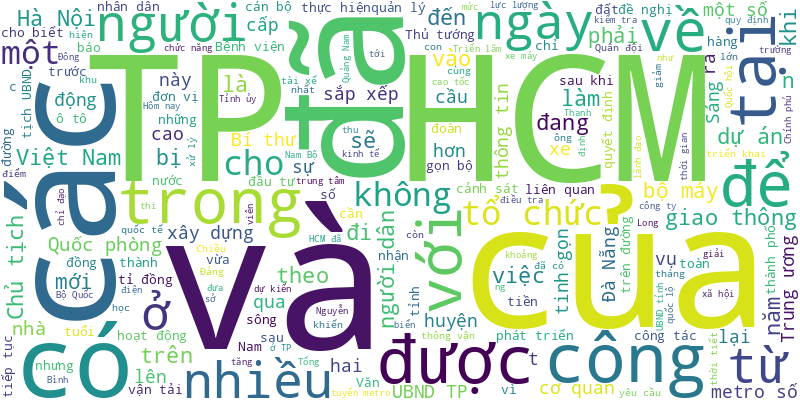
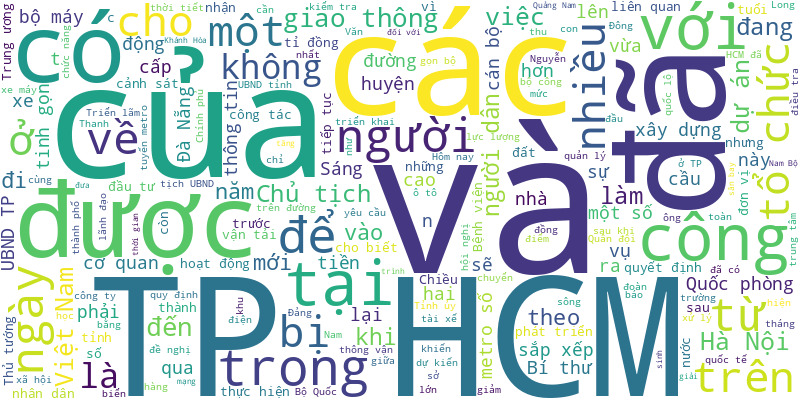
🍀 = 70%

diff --git a/README.md b/README.md
@@ -1,6 +1,18 @@
 # Tuoi Tre RSS 
 
 ## Giáo dục 
+- Từ những chuyến đi học tập trải nghiệm thực tế, các cô cậu học trò không khỏi trân quý những thành quả lao động được làm ra từ chính đôi bàn tay của những người sản xuất.
+- Năm 2025, Trường đại học Luật TP.HCM dự kiến sẽ tăng mạnh chỉ tiêu tuyển sinh đại học chính quy, mở thêm tối thiểu 3 ngành mới các lĩnh vực kinh doanh và quản lý, pháp luật.
+- Theo hiệu trưởng nhà trường, hành động của cô giáo M. là sai, vi phạm quy định, giáo viên không được phép làm. Nhà trường đã tạm dừng việc đứng lớp của cô giáo M. một tuần.
+- Chiều 26-12, học sinh Trường THPT Ernst Thälmann (quận 1, TP.HCM) đến tham quan học tập thực tế tại nhà máy mì Acecook Việt Nam.
+- Phòng thí nghiệm được dùng để nghiên cứu công nghệ phục vụ các ứng dụng của 5G, 6G như công nghiệp tự động hóa, điều khiển tự động, xe tự lái, phẫu thuật y tế từ xa.
+- Tất cả học sinh lớp 12 Trường THPT Trần Hữu Trang, TP.HCM phải làm bài kiểm tra lại môn tiếng Anh trong đợt thi cuối học kỳ 1.
+- Phó thủ tướng Lê Thành Long vừa ký các quyết định của Thủ tướng về việc sáp nhập Trường cao đẳng Y tế Hải Dương và Trường cao đẳng Sư phạm Nghệ An vào hai trường đại học.
+- Năm 2024 đánh dấu cột mốc của sinh viên Đại học (ĐH) Duy Tân với chuỗi dài các giải nhất ở khắp các “đấu trường” học thuật trong nước và quốc tế.
+- Theo lãnh đạo Đại học Quốc gia TP.HCM, cấu trúc bài thi, đề thi đánh giá năng lực từ năm 2025 cần được điều chỉnh phù hợp.
+- Lo ngại lệnh cấm đi lại có thể được áp dụng, một số trường đại học tại Mỹ khuyến khích sinh viên quốc tế sớm quay trở lại trường sau kỳ nghỉ đông.
+- Nhiều bạn trẻ đặt niềm tin vô điều kiện vào mẹo tâm linh như đăng lại video TikTok may mắn, trải bài tarot... đủ kiểu trước kỳ thi.
+- Ngoài việc đổi tên, học viện này đang xúc tiến thủ tục thành lập phân hiệu tại Long Thành, Đồng Nai nhằm cung cấp nhân lực về hàng không.
 - Đến nay, Trường quốc tế Ngôi Sao Sài Gòn (Saigon Star) vẫn không có tên trong danh sách các trường ngoài công lập do Sở Giáo dục và Đào tạo cấp phép.
 - Một số học sinh ở Quảng Nam lên mạng xã hội mua búp bê Kumanthong về nhà thờ cúng, mua bánh, kẹo, sữa 'cho ăn' nhằm cầu may mắn và học giỏi. Theo công an, đây là hoạt động mê tín dị đoan hết sức nguy hiểm.
 - Nhận học bổng "Tiếp sức học sinh Làng Nủ đến trường", các học sinh nói vẫn nhớ những bát "Phở yêu thương" của báo Tuổi Trẻ.
@@ -989,21 +1001,62 @@
 - Sau khi bão Yagi (bão số 3) gây thiệt hại ở nhiều địa phương, mưa lũ lại tiếp tục ở một số tỉnh miền núi phía Bắc. Nhiều trường học vẫn chưa thể cho học sinh quay lại trường.
 - Ngay sau khi nghe tin cầu Phong Châu sập, hai nhà xe đã hợp sức huy động 3 xe chở hàng trăm học sinh đi đường vòng 50km đến trường...
 - Trường tiểu học Ninh Phụng (thị xã Ninh Hòa, tỉnh Khánh Hòa) chưa lấy ý kiến của người dân nhưng đã dồn học sinh của điểm trường này sang điểm trường khác, khiến phụ huynh bức xúc.
-- Các nhà nghiên cứu đã tiến gần hơn đến việc hiểu lý do tại sao trẻ em khó tập trung vào các nhiệm vụ đang làm.
-- Bí thư Hà Nội Bùi Thị Minh Hoài giao Ban Cán sự đảng UBND TP chỉ đạo bảo đảm lưu thông an toàn qua các cầu, các cầu yếu không bảo đảm an toàn phải dừng lưu thông.
-- Chỉ trong 10 ngày (từ 28-8 đến 6-9), số vụ liên quan đến deepfake ở Hàn Quốc đã lên tới 238 vụ. Tổng cộng 588 học sinh và 27 giáo viên bị ảnh hưởng.
-- Bộ Giáo dục và Đào tạo đang kêu gọi chung tay hỗ trợ sách giáo khoa, đồ dùng học tập cho học sinh chịu thiệt hại do bão số 3.
-- Do khác biệt văn hóa Đông - Tây nên một số giáo viên bản ngữ dạy tiếng Anh ở Việt Nam gặp không ít rắc rối.
-- Phó bí thư Thành ủy, Chủ tịch Ủy ban MTTQ Việt Nam TP.HCM Nguyễn Phước Lộc đến thăm Trường tiểu học Lý Nhơn sau sự cố tốc mái.
-- Khảo sát cho thấy 86% giáo viên ở độ tuổi 20-30 muốn bỏ nghề vì không hài lòng với mức lương, cũng như áp lực từ cha mẹ học sinh.
-- Không còn bó hẹp trong không gian một lớp học mà rộng mở hơn, trẻ em vùng cao nhờ đó lần đầu được biết đến nhiều điều mới mẻ ở Hà Nội, ở mũi Cà Mau hay ở một đất nước khác qua các lớp học "kết nối".
-- Cấm học sinh sử dụng điện thoại trong lớp là rất cần thiết, nhưng thực tế nhiều học sinh luôn tìm cách "lách luật".
-- Các trường đại học đều xét và cấp học bổng sau mỗi học kỳ, năm học. Chinh phục những học bổng này có khó?
-- Đại học Bách khoa Hà Nội, Trường đại học Nông - Lâm Bắc Giang cùng nhiều trường đại học vừa thông báo điều chỉnh kế hoạch học tập, cho sinh viên tiếp tục nghỉ học hoặc học trực tuyến sau bão số 3.
-- Bắc Ninh, Hải Phòng, Cao Bằng và nhiều tỉnh/thành phố vừa tiếp tục thông báo cho học sinh nghỉ học thứ hai, ngày 9-9 để khắc phục hậu quả sau bão số 3.
 ![Edu](Edu.png)
 ## Thời Sự 
-- Nhà trọ 5 tầng trên đường số 10, phường Tăng Nhơn Phú B, TP Thủ Đức, TP.HCM cháy sáng sớm 27-12.
+- Được khởi công vào tháng 6-2023, đến nay dự án vành đai 3 TP.HCM đã đạt 30% với 10 gói thầu chính và nhận được 99,8% mặt bằng.
+- Lực lượng cảnh sát phòng cháy chữa cháy Đồng Nai kịp thời giải cứu tài xế mắc kẹt trong cabin xe đông lạnh, sau khi đâm sập ki ốt ven đường.
+- Đang dịp cuối năm nhưng nhiều mặt bằng kinh doanh ở TP.HCM vẫn 'cửa đóng then cài'. Tại Hà Nội cũng ghi nhận nhiều mặt bằng còn trống.
+- Một số tin tức đáng chú ý: Quy định mới về đăng ký thường trú, tạm trú; Lập 2 bãi xe tạm gần ga Bến Thành; Đề xuất mở rộng địa điểm cấm hút thuốc lá...
+- Hôm nay 28-12, miền Trung vẫn còn mưa to đến rất to, miền Nam mưa rào do các nhiễu động thời tiết gây ra.
+- Lực lượng công an thu 9 mẫu chả tại cơ sở sản xuất chả gửi cơ quan chức năng tiến hành kiểm định thì cho kết quả cả 9 mẫu đều phát hiện hàn the (natri borat).
+- Cơn mưa lớn kèm sấm chớp bất ngờ đổ xuống khiến nhiều tuyến đường ở thành phố Biên Hòa (Đồng Nai) chìm trong nước.
+- Thừa ủy quyền, Đại tướng Lương Tam Quang đã trao quyết định của Chủ tịch nước thăng cấp bậc hàm từ thiếu tướng lên trung tướng đối với ông Nguyễn Ngọc Lâm, thứ trưởng Bộ Công an.
+- Chiều 27-12, Bộ Quốc phòng tổ chức trao quyết định của Chủ tịch nước cho sĩ quan làm nhiệm vụ gìn giữ hòa bình Liên hợp quốc.
+- Chiều 27-12, cơn mưa lớn trút xuống nhiều nơi tại TP.HCM, các đoàn tàu tuyến metro số 1 đã tạm dừng hoạt động để đổi chế độ vận hành bằng tay, đảm bảo an toàn.
+- Chỉ còn 4 ngày nữa, 41 phường mới tại TP.HCM sẽ đi vào hoạt động sau khi sáp nhập từ 80 phường. Hiện cán bộ, công chức của các phường đang tất bật dọn dẹp, di chuyển, sắp xếp để ổn định nơi làm việc mới.
+- Chủ tịch UBND TP.HCM Phan Văn Mãi cho biết đề án phát triển 355km hệ thống đường sắt đô thị TP.HCM đến năm 2035 vừa được Bộ Chính trị thông qua.
+- Chiều tối 27-12, cả TP.HCM xảy ra mưa dông, nhiều nơi mưa lớn và sét đánh.
+- Hơn 44.000 bao thuốc lá hiệu Jet, Hero nhập lậu được tỉnh Quảng Trị tịch thu trong năm 2024, bị tiêu hủy bằng các biện pháp đốt, chôn lấp.
+- 'Ngày 26-12 có 7 con sếu đầu đỏ bay về phân khu A5 Vườn quốc gia Tràm Chim 'thám thính'. Đầu tháng 3 có 4 con sếu về, một tín hiệu đáng mừng cho thấy môi trường đã dần hồi phục theo hướng tốt' - TS Trần Triết cho hay.
+- Lực lượng chức năng đã kiểm tra việc cơi nới ban công trái phép trên tầng 41-42 Mường Thanh Luxury (phường Lộc Thọ, TP Nha Trang).
+- Chủ tịch nước Lương Cường đã trao quyết định thăng cấp bậc hàm từ trung tướng lên thượng tướng đối với Thứ trưởng Bộ Công an Lê Quốc Hùng.
+- Công ty TNHH MTV Đường sắt đô thị số 1 thông tin về việc triển khai lại hệ thống thanh toán không chạm thu soát vé tự động trên tuyến metro số 1 (Bến Thành - Suối Tiên) từ ngày 2-1-2025.
+- Công an TP Phú Quốc đang điều tra hành vi 3 người nước ngoài lừa đảo bằng thủ đoạn đổi tiền USD giả, mua hàng hóa.
+- Sau sáp nhập, bộ hợp nhất hai bộ Xây dựng và Giao thông vận tải sẽ có tên mới là Bộ Xây dựng và giao thông, số đơn vị trực thuộc bộ hợp nhất còn 24 - 27 đơn vị, giảm 35 - 41% số đầu mối so với trước khi sáp nhập.
+- Trưa nay thời tiết TP.HCM có mưa dông nhiều nơi kèm theo gió, vùng mưa đang mở rộng ra nhiều nơi, do đâu đang mùa khô lại có mưa?
+- Dự án 94 Lò Đúc bỏ hoang nhiều năm được các cử tri quan tâm, đặt câu hỏi cho các đại biểu HĐND TP Hà Nội - đơn vị bầu cử số 4.
+- Ngoài hỗ trợ các cặp vợ chồng sinh đủ 2 con, ngành y tế TP.HCM đang gấp rút trình nghị quyết đặc thù về hỗ trợ một số chi phí khác.
+- Bạn đọc Tuổi Trẻ Online bày tỏ bất bình khi chủ cơ sở trồng giá bằng hóa chất độc hại ở Huế chỉ bị phạt tiền.
+- Hai người giới thiệu là phóng viên, đến yêu cầu một chủ mỏ cát tại Quảng Bình đưa 50 triệu đồng để không viết bài. Khi nhận tiền, cả hai bị bắt giữ.
+- Văn phòng UBND TP.HCM tổ chức hội nghị tổng kết công tác văn phòng 2024 và hội nghị cán bộ, công chức văn phòng nhân dân TP.HCM 2025.
+- 6-Benzylaminopurine là một loại hóa chất kích thích tăng trưởng cấm dùng trong sản xuất thực phẩm vì có mức độ nguy hại lớn.
+- Hà Nội đặt mục tiêu trồng mới thêm 700.000 cây xanh trong năm 2025, góp phần hoàn thành mục tiêu trồng 1 tỉ cây xanh giai đoạn 2021-2025.
+- Sau khi metro số 1 hoạt động, TP.HCM có thêm động lực để đầu tư đồng loạt 355km metro, dự kiến hoàn thành trong 10 năm.
+- Đầu tháng 12-2024 đến nay, ngư dân các xã ven biển ở Ninh Thuận vui như hội vì “trúng đậm” tôm hùm con.
+- PGS.TS Phan Thanh Bình, nguyên ủy viên Ủy ban Thường vụ Quốc hội, phát biểu tại hội thảo do Học viện Cán bộ TP.HCM tổ chức sáng 27-12.
+- Tàu cá bị sóng đánh chìm ở Ninh Thuận, 11 người được cứu, riêng con trai chủ tàu 12 tuổi chết khi cấp cứu tại bệnh viện.
+- Người dân TP Buôn Ma Thuột khóc ròng vì đường Phan Huy Chú thành sình lầy do thi công dang dở.
+- Trưa 27-12, hỏa hoạn xảy ra tại khu vực sơn, đánh bóng xe gara ô tô khu Đìa Đừng xã Song Phượng.
+- Sau gần ba năm đưa vào khai thác, cầu Ba Son đang được lắp đặt hệ thống chiếu sáng mỹ thuật.
+- Sáng 27-12, Cổng thông tin điện tử Chính phủ tổ chức tọa đàm "Kỷ nguyên vươn mình của dân tộc - Cơ hội và thách thức”.
+- Một cây hoa sữa lớn đổ giữa đường phố tại trung tâm TP Quy Nhơn (Bình Định) trong mưa, đè trúng một người đàn ông đang chạy xe máy.
+- Cầu Tân Kỳ Tân Quý ở quận Bình Tân (TP.HCM) sẽ thông xe vào ngày 15-1-2025, còn cầu Bà Hom thông xe sau đó 5 ngày.
+- Bốn người là lãnh đạo các ban, ngành được Ban Bí thư chỉ định tham gia Ban Chấp hành Đảng bộ tỉnh Lâm Đồng nhiệm kỳ 2020 - 2025.
+- Ngày 27-12, Tỉnh ủy Đồng Nai đã tổ chức hội nghị triển khai các quyết định về công tác cán bộ.
+- Bí thư Bà Rịa - Vũng Tàu yêu cầu tinh gọn bộ máy phải giữ được người thiết tha cống hiến, người tài giỏi, không bố trí người thân quen.
+- Sở Y tế tiếp tục xác minh, làm rõ các sai phạm tại các cơ sở Dong Yang (quận Tân Bình), BB Beauty và VHAN (quận 10).
+- Hội nghị công bố các quyết định tổ chức với sự tham gia của Bí thư Tỉnh ủy Bình Dương Nguyễn Văn Lợi và Chủ tịch UBND tỉnh Võ Văn Minh.
+- Đôi vợ chồng trẻ dự định giữa tháng sau sẽ về quê ăn Tết cùng gia đình nhưng không may gặp nạn trong vụ cháy nhà trọ tại Thủ Đức (TP.HCM).
+- Bộ trưởng Đào Ngọc Dung đã có thông tin mới về tiến độ công việc hợp nhất giữa Bộ Lao động - Thương binh và Xã hội với Bộ Nội vụ.
+- Sáng 27-12, Ban Chấp hành Đảng bộ tỉnh Bắc Giang tổ chức hội nghị lần thứ 23, bầu chức danh phó bí thư Tỉnh ủy nhiệm kỳ 2020-2025.
+- Hàng loạt chủ dự án có biệt thự, căn hộ du lịch trên đất ở Khánh Hòa không khai báo để quản lý, thu thuế.
+- Ngày 27-12, Tổng cục Hải quan triển khai thi công xây dựng công trình trụ sở hải quan tại sân bay Long Thành.
+- Ngày 27-12, Phòng Cảnh sát giao thông Công an Đà Nẵng cho biết đã truy vết và xử lý lái xe trộn bê tông gây ra sự việc trên.
+- Chiếc xe khách chở 200kg nội tạng bốc mùi hôi thối trên đường ra Bắc để tiêu thụ thì bị cảnh sát giao thông Công an tỉnh Hà Tĩnh phát hiện.
+- Một số đơn vị ở Sơn La, Bắc Giang, Bà Rịa - Vũng Tàu... đã tổ chức các kỳ kiểm tra sát hạch đội ngũ cán bộ, công chức, viên chức.
+- Lễ tang Đại tướng Nguyễn Quyết, nguyên phó chủ tịch Hội đồng Nhà nước (nay là phó chủ tịch nước), được tổ chức trọng thể tại Nhà tang lễ Quốc gia.
+- Tỉnh cho rằng cả hai đã hy sinh khi cứu người, cứu tài sản của dân nên đề nghị bộ xem xét, trình Thủ tướng cấp bằng Tổ quốc ghi công.
+- Hai nạn nhân thiệt mạng được xác định là đôi vợ chồng mới cưới nhau được một năm, từ Thái Bình vào TP.HCM lập nghiệp.
 - 3 người đàn ông chạy xe máy tông vào dải phân cách ở Nha Trang, tử vong tại chỗ.
 - Vợ chồng Hạnh xây dựng hình ảnh công ty của mình chuyên kinh doanh bất động sản, sở hữu nhiều bất động sản, dự án trên cả nước.
 - Người dùng mạng xã hội lan truyền những hình ảnh ánh sáng xanh trên bầu trời Bình Định, Phú Yên và gọi đó là cực quang.
@@ -1950,61 +2003,9 @@
 - Những ngày này, trong câu chuyện bên bàn cà phê, các bạn trẻ tại TP.HCM rộn ràng bàn luận về việc tàu điện metro đi vào hoạt động.
 - Theo Chủ tịch Quốc hội Trần Thanh Mẫn, giữa tháng 2-2025 Trung ương họp và cuối tháng 2 sẽ họp Quốc hội bất thường để sửa một số luật liên quan tinh gọn bộ máy.
 - Cảnh "ao tù", cỏ dại, hoang phế tại 3 dự án án ngữ trên đất "kim cương" giữa trung tâm Đà Nẵng suốt hơn chục năm qua.
-- Bộ Nội vụ đã có hướng dẫn về định hướng xây dựng phương án bố trí, sắp xếp cán bộ, công chức khi thực hiện sắp xếp tổ chức bộ máy hành chính.
-- Chỉ trong vòng hơn 1 năm, Hường và Thành đã vận chuyển, mua bán khoảng 4,5 triệu USD qua biên giới sang Lào để tiêu thụ, kiếm lời.
-- Nhiều chuyên gia, nghệ sĩ đưa ra ý kiến khá bất ngờ: đầu tư cho văn hóa thì tài chính trực tiếp rất quý nhưng không phải là thứ quan trọng nhất.
-- Tin tức đáng chú ý: Khai mạc phiên họp 40 của Ủy ban Thường vụ Quốc hội, xem xét sáp nhập đơn vị cấp huyện, xã của tỉnh Ninh Bình; Tiếp tục triển khai đường sắt đô thị, tàu điện ngầm tại Hà Nội, TP.HCM...
-- Hôm nay 10-12, thời tiết cả nước ban ngày không có gì đột biến nhưng từ đêm nay Trung Bộ sẽ mưa to đến rất to.
-- Bà Trịnh Thị B. ngụ phường 7, TP Vũng Tàu đã bị tạm giữ hình sự sau khi có đơn tố cáo bà này bạo hành trẻ em tại nhà mình.
-- Chiều tối 9-12, Thủ tướng Chính phủ Phạm Minh Chính tiếp, làm việc với đoàn lãnh đạo 18 doanh nghiệp, tập đoàn của Trung Quốc.
-- Lần đầu tiên báo Tuổi Trẻ phối hợp Bộ Nông nghiệp và Phát triển nông thôn tổ chức hội thảo "Xây dựng thương hiệu quốc gia cho gạo Việt".
-- Thấy cảnh sát giao thông dừng xe kiểm tra, người đàn ông quốc tịch Trung Quốc tăng ga bỏ chạy đến 10km mới bị chặn lại. Trên xe ô tô chở thuốc lá lậu.
-- Đoạn cao tốc TP.HCM - Trung Lương sẽ mở rộng từ 4 làn xe lên 8 làn xe, Trung Lương - Mỹ Thuận từ 4 làn xe hạn chế lên 6 làn xe.
-- Làm việc với Ban Thường vụ Tỉnh ủy Quảng Trị, Trưởng Ban Tổ chức Trung ương cho hay sẽ xây dựng chính sách vượt trội để cán bộ dôi dư xin nghỉ, lưu ý không được làm mất cán bộ giỏi.
-- Ông Dương Đức Tuấn, phó chủ tịch UBND TP Hà Nội, nêu ý kiến như vậy ở phiên thảo luận tổ tại kỳ họp thứ 20, HĐND TP Hà Nội khóa XVI, diễn ra chiều 9-12.
-- Doanh nghiệp điều hành, quản lý các chuyến bay Việt Nam đã điều hành an toàn 12 triệu chuyến bay, đạt tổng thu điều hành bay hơn 75.000 tỉ đồng và nộp ngân sách nhà nước hơn 36.000 tỉ đồng.
-- Chiếc xe khách tự nhận là 'chuyên cơ mặt đất' đã tông gãy lan can và lao xuống vệ đường khá thấp, khiến hàng chục hành khách hoảng loạn phá cửa thoát thân.
-- Viện Hàng không vũ trụ Viettel có thành tích đặc biệt xuất sắc trong nghiên cứu, sản xuất các sản phẩm vũ khí chiến lược công nghệ cao cho quân đội, đất nước.
-- Tính tới thời điểm hiện tại, cao tốc Châu Đốc - Cần Thơ - Sóc Trăng và cao tốc Cần Thơ - Cà Mau đã thành hình.
-- Đua theo nhu cầu, nhiều người dân, doanh nghiệp đổ xô xây dựng sân pickleball trái phép cả trên đất nông nghiệp, đất làm kho.
-- Chiều 9-12, tại phiên thảo luận tổ kỳ họp HĐND TP.HCM, các đại biểu đã thảo luận sôi nổi về tình hình kinh tế - xã hội năm 2024 và các giải pháp trọng tâm để TP đạt mục tiêu tăng trưởng năm 2025.
-- Đại biểu HĐND TP.HCM Phạm Đăng Khoa cho rằng nhiều người dân mong muốn tăng thêm ngày nghỉ Tết để học sinh và phụ huynh có điều kiện về quê ăn Tết.
-- Tỉnh Phú Yên họp triển khai công tác sắp xếp tổ chức bộ máy cấp tỉnh, cấp huyện ở các khối đảng, đoàn thể và chính quyền.
-- Sau khi tiếp nhận thông tin lan truyền trên mạng xã hội, Công an quận 4 (TP.HCM) nhanh chóng truy xét, đưa người đàn ông đánh tới tấp nam thanh niên sau va quẹt giao thông về trụ sở.
-- Trong cuộc đấu giá thanh lý tài sản tháo dỡ hội trường trụ sở xã ở Quảng Nam, giá khởi điểm tài sản chỉ hơn 10 triệu đồng nhưng một người phụ nữ đấu giá 17 tỉ.
-- Sở Giao thông vận tải TP.HCM vừa có báo cáo gửi UBND TP.HCM về tình hình thực hiện các công việc chuẩn bị vận hành khai thác thương mại tuyến metro số 1.
-- UBND thành phố Cần Thơ vừa ban hành kế hoạch định hướng sắp xếp, tinh gọn tổ chức bộ máy của các cơ quan thuộc thành phố.
-- Nước sinh hoạt ở quận 3, TP.HCM nồng nặc mùi clo sau khi sửa đường ống, người dân phải mua nước bình để tắm giặt, nấu nướng.
-- Công tác kiện toàn, sắp xếp, tinh gọn tổ chức, bộ máy phải giúp hai đại học quốc gia tự chủ mạnh mẽ hơn nữa, theo chỉ đạo của Phó thủ tướng Trần Hồng Hà.
-- Trước nạn rừng bị phá hàng chục ngàn héc ta, Công an tỉnh Đắk Lắk lập chuyên án đấu tranh tội phạm phá rừng và đã khởi tố 40 vụ, bắt 122 người.
-- Tại phiên họp thứ 40, Ủy ban Thường vụ Quốc hội sẽ xem xét nhiều nội dung quan trọng, trong đó tiếp tục xem xét sáp nhập đơn vị cấp huyện, xã của Ninh Bình.
-- Hơn 400 người được tỉnh Gia Lai thông báo đến nhận tiền thu thừa dịch vụ xét nghiệm COVID-19, nhưng đến nay vẫn không thấy đến nhận.
-- Ít nhất có hơn 20 con heo rừng được phát hiện đã chết chưa rõ nguyên nhân trong Vườn quốc gia Pù Mát, Nghệ An.
-- Cơ quan chức năng đã tìm thấy thi thể nạn nhân còn lại trong vụ chìm tàu ở khu vực Hòn Nét, vịnh Bái Tử Long.
-- Phong trào thi đua phải tuyệt đối không hình thức, chiếu lệ, mà phải sống động, thiết thực, hiệu quả, theo yêu cầu của Thủ tướng Phạm Minh Chính.
-- HĐND TP Cần Thơ bầu bổ sung bà Nguyễn Thị Ngọc Điệp, bí thư Quận ủy Thốt Nốt, giữ chức vụ phó chủ tịch UBND TP Cần Thơ.
-- Ông Nguyễn Long Hải, 48 tuổi, được điều động giữ chức bí thư Tỉnh ủy Quảng Trị nhiệm kỳ 2020 - 2025.
-- Tổng Bí thư Tô Lâm nhấn mạnh Ban Kinh tế Trung ương cần cách mạng về tư duy, cách mạng về tổ chức bộ máy để đáp ứng yêu cầu nhiệm vụ giai đoạn mới.
-- Quá trình thực hiện hợp nhất hai bộ nông nghiệp và tài nguyên - môi trường cần dân chủ, khách quan, 'không hợp nhất một cách cơ học'.
-- Phần cầu chính cầu Đại Ngãi 1 có nhịp chính dài 450m khi hoàn thành sẽ giúp rút ngắn khoảng 80km so với tuyến quốc lộ 1 đi từ miền Tây về TP.HCM.
-- Bạn đọc phản ánh số tiền cần đóng để mở rộng hẻm ở quận 10 quá cao, địa phương phản hồi ra sao?
-- Bạn đọc cho biết các cột điện chắn giữa hẻm mới mở rộng ở quận 3, TP.HCM đã được dời vào trong, trả lại mặt hẻm thông thoáng.
-- Công chức, cán bộ dôi dư sau sắp xếp đơn vị hành chính cấp xã giai đoạn 2023 - 2025 ở Quảng Ngãi sẽ nhận được chính sách hỗ trợ.
-- Phó bí thư Tỉnh ủy Yên Bái Nguyễn Tuấn Anh được Hội đồng nhân dân tỉnh Yên Bái bầu làm chủ tịch UBND tỉnh Yên Bái nhiệm kỳ 2021-2025.
-- Ngày 9-12, Đồng Tháp tổ chức Hội nghị Ban Chấp hành Đảng bộ lần thứ 19, Ban Thường vụ Tỉnh ủy đã đề xuất phương án đổi mới, sắp xếp tinh gọn bộ máy theo chỉ đạo của trung ương.
-- Từ ngày 1-1-2025 người có bằng lái xe quá hạn dù chỉ 1 ngày cũng phải thi lại lý thuyết để được cấp lại bằng, thay vì quá hạn từ 3 tháng đến 1 năm mới phải thi lý thuyết.
-- Sáng 9-12, HĐND TP Hà Nội khóa XVI đã khai mạc kỳ họp thứ 20 để xem xét, quyết định các vấn đề thuộc thẩm quyền.
-- Công an quận 4, TP.HCM đang truy xét nam thanh niên đi xe máy đánh người khác tới tấp sau va chạm giao thông.
-- Dự báo từ đêm mai (10-12) đến ngày 13-12, ở Trung Trung Bộ và Nam Trung Bộ khả năng có mưa vừa, mưa to, có nơi mưa rất to.
-- Hội đồng nhân dân tỉnh Quảng Ngãi tổ chức kỳ họp thứ 29 để thảo luận nhiều vấn đề quan trọng. Kỳ họp sẽ chất vấn 3 nhóm vấn đề: quản lý đầu tư, xây dựng; dân tộc, miền núi; vệ sinh an toàn thực phẩm.
-- Công an tỉnh Phú Yên đang truy tìm phương tiện giao thông liên quan đến vụ tai nạn giao thông khiến 1 người đàn ông đi bộ tử vong tại chỗ.
-- Bí thư Thành ủy TP.HCM Nguyễn Văn Nên đề nghị cả hệ thống chính trị tập trung sắp xếp bộ máy theo chỉ đạo của Trung ương.
-- Ông Lê Trường Lưu, bí thư Tỉnh ủy Thừa Thiên Huế, khẳng định việc ổn định bộ máy hành chính tại thành phố Huế trực thuộc trung ương sẽ diễn ra minh bạch.
-- TP.HCM đã thu hồi 339 địa chỉ nhà, đất công với tổng diện tích hơn 1,2 triệu m² để phục vụ công trình công cộng, trụ sở và phát triển hạ tầng.
-- HĐND tỉnh Kiên Giang đã biểu quyết giảm vốn 100 tỉ đồng đường ven biển Rạch Giá - Hòn Đất nhờ tiết kiệm xây dựng…
-- Sáng 9-12, tỉnh Bình Thuận tổ chức lễ an táng cho 6 liệt sĩ trong vụ tai nạn diễn tập ở Trường bắn quốc gia khu vực 3, Quân khu 7.
 ![New](News.png)
 ## Nhịp sống số 
+- Điện thoại realme C75 đang được mở bán đặc quyền tại Thế Giới Di Động chính là một "chiến binh" sẵn sàng đồng hành cùng bạn trong mọi hoàn cảnh.
 - Trong số 10 sự kiện công nghệ thông tin và truyền thông tiêu biểu nhất năm 2024, các sự kiện liên quan bán dẫn, viễn thông chiếm vị trí nổi bật.
 - Báo Tuổi Trẻ vừa chính thức đưa vào hoạt động tòa soạn chuyển đổi số theo phong cách hiện đại, đa năng và sáng tạo.
 - Phó bí thư Thành ủy TP.HCM đề nghị tăng cường tuyên truyền để người dân phòng ngừa hoạt động phạm pháp trên môi trường số.
@@ -3003,5 +3004,4 @@
 - TTO - Trong thập kỷ qua, Facebook đã hợp tác chia sẻ dữ liệu người dùng với ít nhất 60 nhà sản xuất thiết bị điện tử như Apple, Amazon, BlackBerry, Microsoft và Samsung.
 - TTO - Facebook thực sự không muốn là công ty truyền thông khi vừa tuyên bố sẽ gỡ bỏ phần nội dung tin tức nổi bật (Trending) trên trang của họ từ tuần tới.
 - TTO - Nếu bạn là người ít có thói quen kiểm tra điện thoại trước khi rời khỏi các nơi mình đã viếng thăm thì bạn nên chuẩn bị tinh thần lúc thiết bị “bốc hơi”. Tuy nhiên, bạn cũng đừng băn khoăn nếu đủ nhanh để thực hiện các bước đơn giản sau đây.
-- TTO - Có vẻ như cả Google và Apple đang cố gắng giúp người dùng cân bằng công nghệ và cuộc sống.
 ![life](Life.png)
